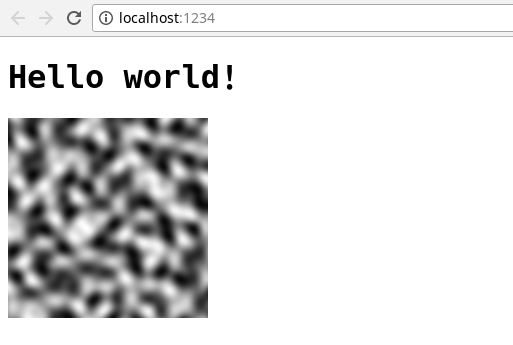
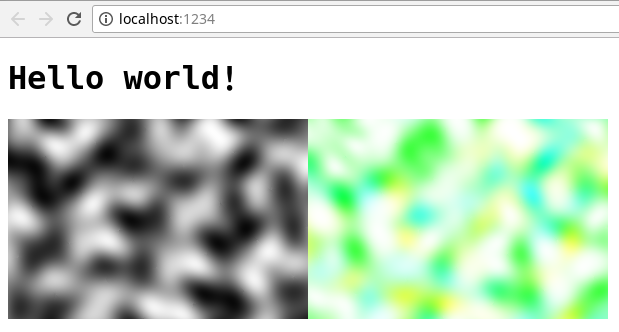
feat(rgba): Add support for RGBA channel noise function arrays

diff --git a/test/unit/lib.test.js b/test/unit/lib.test.js
@@ -8,59 +8,133 @@ const noisify = require('../../')
 
 describe('Fill a canvas with noise', function () {
   let noiseData = []
-
-  const simplex = new Simplex2('ayyylmao')
-  const noiseFn = (x, y) => {
-    const noise = simplex.gen(x / 32, y / 32)
-    const map = n => Math.floor(255 * (n + 1) / 2)
-    const n = map(noise)
-
-    noiseData.push(n, n, n, 255)
-    return noise
-  }
+  const width = 100
+  const height = 100
+  const simplexFns = [
+    new Simplex2('ayyylmao'),
+    new Simplex2('another seed'),
+    new Simplex2('seed'),
+    new Simplex2('test')
+  ]
 
   beforeEach(function () {
     noiseData = []
   })
 
   describe('Node-canvas support', function () {
-    const width = 100
-    const height = 100
-    const filename = path.join(__dirname, 'noise.png')
-    const canvas = new Canvas(width, height)
+    describe('Single noise function', function () {
+      const canvas = new Canvas(width, height)
+      const filename = path.join(__dirname, 'noise.png')
+      const noiseFn = (x, y) => {
+        const noise = simplexFns[0].gen(x / 32, y / 32)
+        const map = n => Math.floor(255 * (n + 1) / 2)
+        const n = map(noise)
 
-    noisify(canvas, noiseFn, { 
-      ImageData: Canvas.ImageData
-    })
-
-    it('matches the data created by the noise function', function () {
-      const pixels = canvas
-        .getContext('2d')
-        .getImageData(0, 0, width, height)
-        .data
-
-      for (let i = 0; i < noiseData.length; i++) {
-        expect(noiseData[i]).to.equal(pixels[i])
+        noiseData.push(n, n, n, 255)
+        return noise
       }
-    })
 
-    it('can produce an image file with the correct pixel data', function () {
-      try {
-        canvas.createPNGStream().pipe(fs.createWriteStream(filename))
-      } catch (err) {
-        expect.fail('No errors should occur when creating image')
-      }
-    })
+      noisify(canvas, noiseFn, { 
+        ImageData: Canvas.ImageData
+      })
 
-    it('throws an error if no ImageData constructor is supplied', function () {
-      try {
-        noisify(canvas, noiseFn)
-      } catch (err) {
-        if (!err) {
-          expect.fail('Missing ImageData Error should be thrown')
+      it('matches the data created by the noise function', function () {
+        const pixels = canvas
+          .getContext('2d')
+          .getImageData(0, 0, width, height)
+          .data
+
+        for (let i = 0; i < noiseData.length; i++) {
+          expect(noiseData[i]).to.equal(pixels[i])
         }
-        expect(err.message).to.equal('No ImageData constructor supplied')
+      })
+
+      it('can produce an image file with the correct pixel data', function () {
+        try {
+          canvas.createPNGStream().pipe(fs.createWriteStream(filename))
+        } catch (err) {
+          expect.fail('No errors should occur when creating image')
+        }
+      })
+
+      it('throws an error if no ImageData constructor is supplied', function () {
+        try {
+          noisify(canvas, noiseFn)
+        } catch (err) {
+          if (!err) {
+            expect.fail('Missing ImageData Error should be thrown')
+          }
+          expect(err.message).to.equal('No ImageData constructor supplied')
+        }
+      })
+    })
+
+    describe('RGBA noise function array', function () {
+      const canvas = new Canvas(width, height)
+      const filename = path.join(__dirname, 'noiseRGBA.png')
+      const getNoiseFn = (i) => (x, y) => {
+        const noise = simplexFns[i].gen(x / 32, y / 32)
+        const map = n => Math.floor(255 * (n + 1) / 2)
+        const n = map(noise)
+
+        noiseData.push(n)
+        return noise
       }
+
+      noisify(canvas, [
+        getNoiseFn(0),
+        getNoiseFn(1),
+        getNoiseFn(2),
+        getNoiseFn(3)
+      ], { 
+        ImageData: Canvas.ImageData
+      })
+
+      it('matches the data created by the noise function', function () {
+        const pixels = canvas
+          .getContext('2d')
+          .getImageData(0, 0, width, height)
+          .data
+
+        for (let i = 0; i < noiseData.length; i++) {
+          expect(noiseData[i]).to.equal(pixels[i])
+        }
+      })
+
+      it('can produce an image file with the correct pixel data', function () {
+        try {
+          canvas.createPNGStream().pipe(fs.createWriteStream(filename))
+        } catch (err) {
+          expect.fail('No errors should occur when creating image')
+        }
+      })
+
+      it('throws an error if no ImageData constructor is supplied', function () {
+        try {
+          noisify(canvas, [
+            getNoiseFn(0),
+            getNoiseFn(1),
+            getNoiseFn(2),
+            getNoiseFn(3)
+          ])
+        } catch (err) {
+          if (!err) {
+            expect.fail('Missing ImageData Error should be thrown')
+          }
+          expect(err.message).to.equal('No ImageData constructor supplied')
+        }
+      })
+
+      it('should fill the canvas with white pixels if given an empty array', function () {
+        noisify(canvas, [], { ImageData: Canvas.ImageData })
+        
+        const pixels = canvas
+          .getContext('2d')
+          .getImageData(0, 0, width, height)
+          .data
+
+        expect(pixels.every(x => x === 255))
+      })
     })
   })
 
@@ -75,10 +149,10 @@ describe('Fill a canvas with noise', function () {
       canvas.width = 100
       canvas.height = 100
       canvas.id = 'id'
-      
+
       document.body.appendChild(canvas)
 
-      noisify('#id', (x, y) => simplex.gen(x / 32, y / 32))
+      noisify('#id', (x, y) => simplexFns[0].gen(x / 32, y / 32))
     })
   })
 })

diff --git a/lib/index.js b/lib/index.js
@@ -17,14 +17,33 @@ function noiseCanvas (canvasSlt, noiseFn, config = {}) {
   const ctx = canvas.getContext('2d')
   const pixelData = new Uint8ClampedArray(width * height * 4)
 
+  let functs = []
+  let isRGBA = false
+
+  if (typeof noiseFn === 'object') {
+    isRGBA = true
+
+    for (let i = 0; i < 4; i++) {
+      if (noiseFn[i]) {
+        functs[i] = (x, y) => 255 * (noiseFn[i](x, y) + 1) / 2
+      } else {
+        functs[i] = () => 255
+      }
+    }
+  }
+
   for (let y = 0; y < height; y++) {
     for (let x = 0; x < width; x++) {
-      const n = 255 * (noiseFn(x, y) + 1) / 2
+      let pixel
 
-      pixelData.set(
-        new Uint8Array([n, n, n, 255]),
-        x * 4 + y * 4 * width
-      )
+      if (isRGBA) {
+        pixel = new Uint8Array(functs.map(fn => fn(x, y)))
+      } else {
+        const n = 255 * (noiseFn(x, y) + 1) / 2
+        pixel = new Uint8Array([n, n, n, 255])
+      }
+
+      pixelData.set(pixel, x * 4 + y * 4 * width)
     }
   }
 

diff --git a/test/functional/browser.test.js b/test/functional/browser.test.js
@@ -1,12 +1,26 @@
 const noisify = require('../../')
 const { Simplex2 }  = require('tumult')
 
-const simplex = new Simplex2('ayylmao')
-const canvas = document.createElement('canvas')
+const noise1 = new Simplex2('some seed')
+const noise2 = new Simplex2('another seed')
+const noise3 = new Simplex2('foobar')
 
-canvas.width = 200
+const canvas = document.createElement('canvas')
+const rgbaCanvas = document.createElement('canvas')
+
+canvas.width = 300
 canvas.height = 200
 
-noisify(canvas, (x, y) => simplex.gen(x / 32, y / 32))
+rgbaCanvas.width = 300
+rgbaCanvas.height = 200
+
+noisify(canvas, (x, y) => noise1.gen(x / 64, y / 64))
+noisify(rgbaCanvas, [
+  (x, y) => noise1.gen(x / 64, y / 64),
+  ,
+  (x, y) => noise2.gen(x / 64, y / 64),
+  (x, y) => noise3.gen(x / 64, y / 64)
+])
 
 document.body.appendChild(canvas)
+document.body.appendChild(rgbaCanvas)

diff --git a/README.md b/README.md
@@ -32,11 +32,25 @@ noisify(canvas, (x, y) => simplex(x / 128, y / 128))
 document.body.appendChild(canvas)
 ```
 
+You can also specify noise functions for each channel (RGBA). If no function is supplied, it defaults to `() => 1`.
+
+```js
+const noise1 = new Simplex2('some seed')
+const noise2 = new Simplex2('another seed')
+const noise3 = new Simplex2('another one')
+
+noisify(canvas, [
+  noise1.gen.bind(noise1),
+  noise2.gen.bind(noise2),
+  noise3.gen.bind(noise3)
+])
+```
+
 ## API
 
 #### noisify(canvas, noiseFn, config)
 
 * canvas: The canvas element or canvas DOM selector string
-* noiseFn: A two-dimensional noise function with a range of [-1, 1]
+* noiseFn: A two-dimensional noise function, or an array of two-dimensional noise functions, with a range of [-1, 1]
 * config: 
   * ImageData: If using node-canvas, the ImageData constructor (`canvas.ImageData`)
